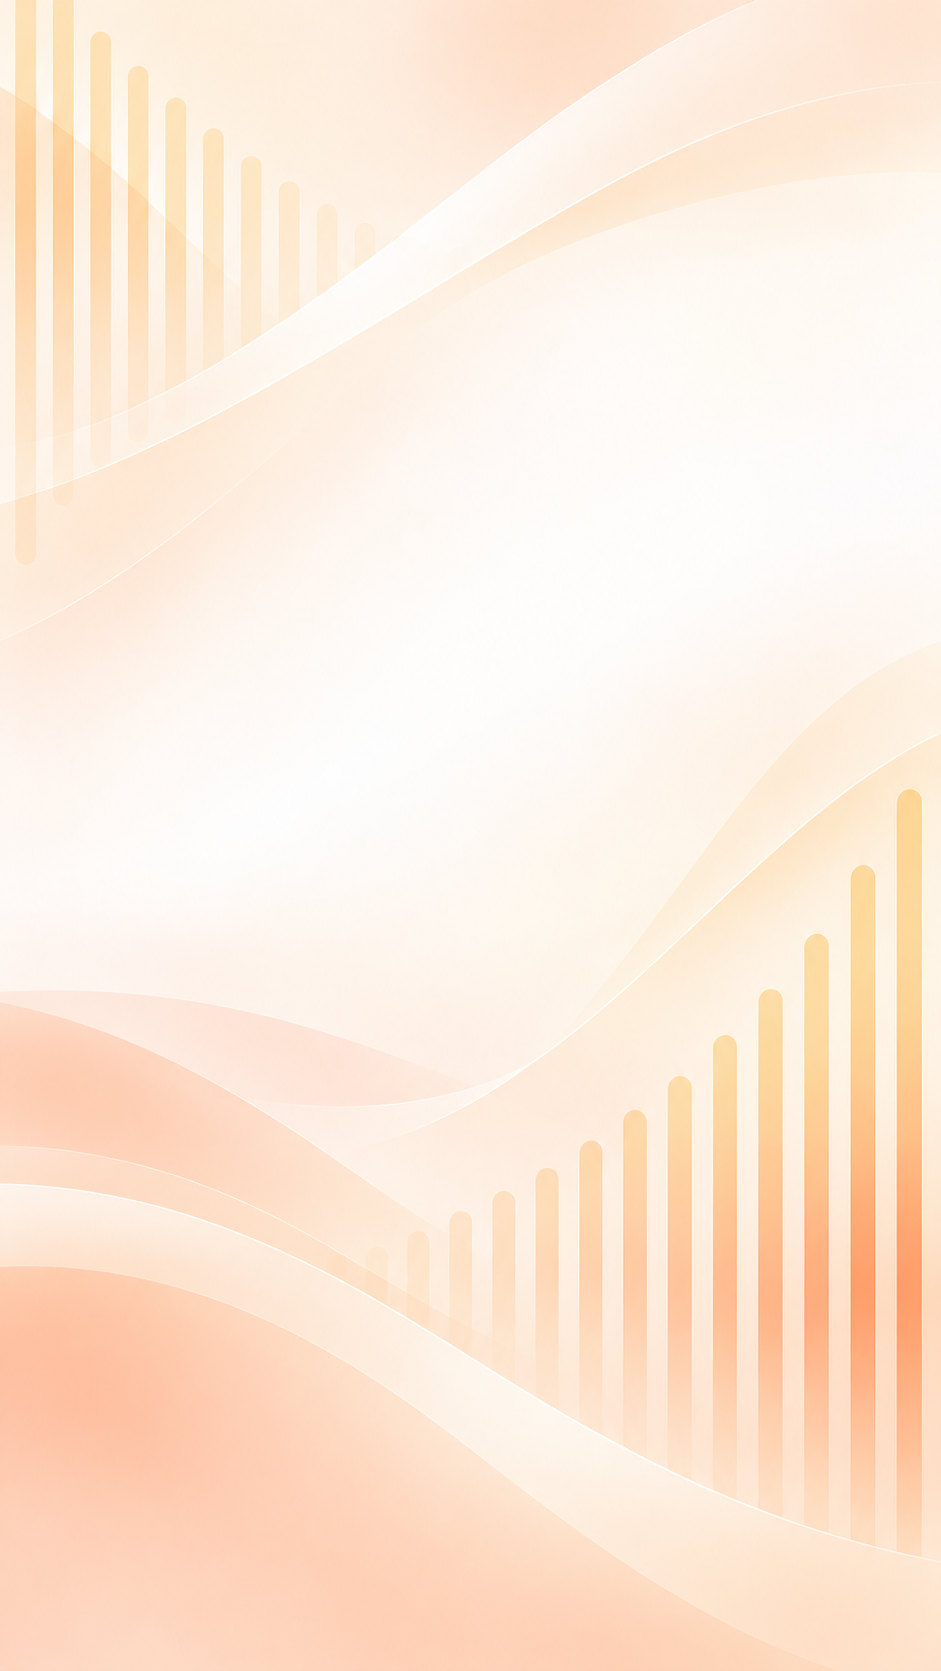
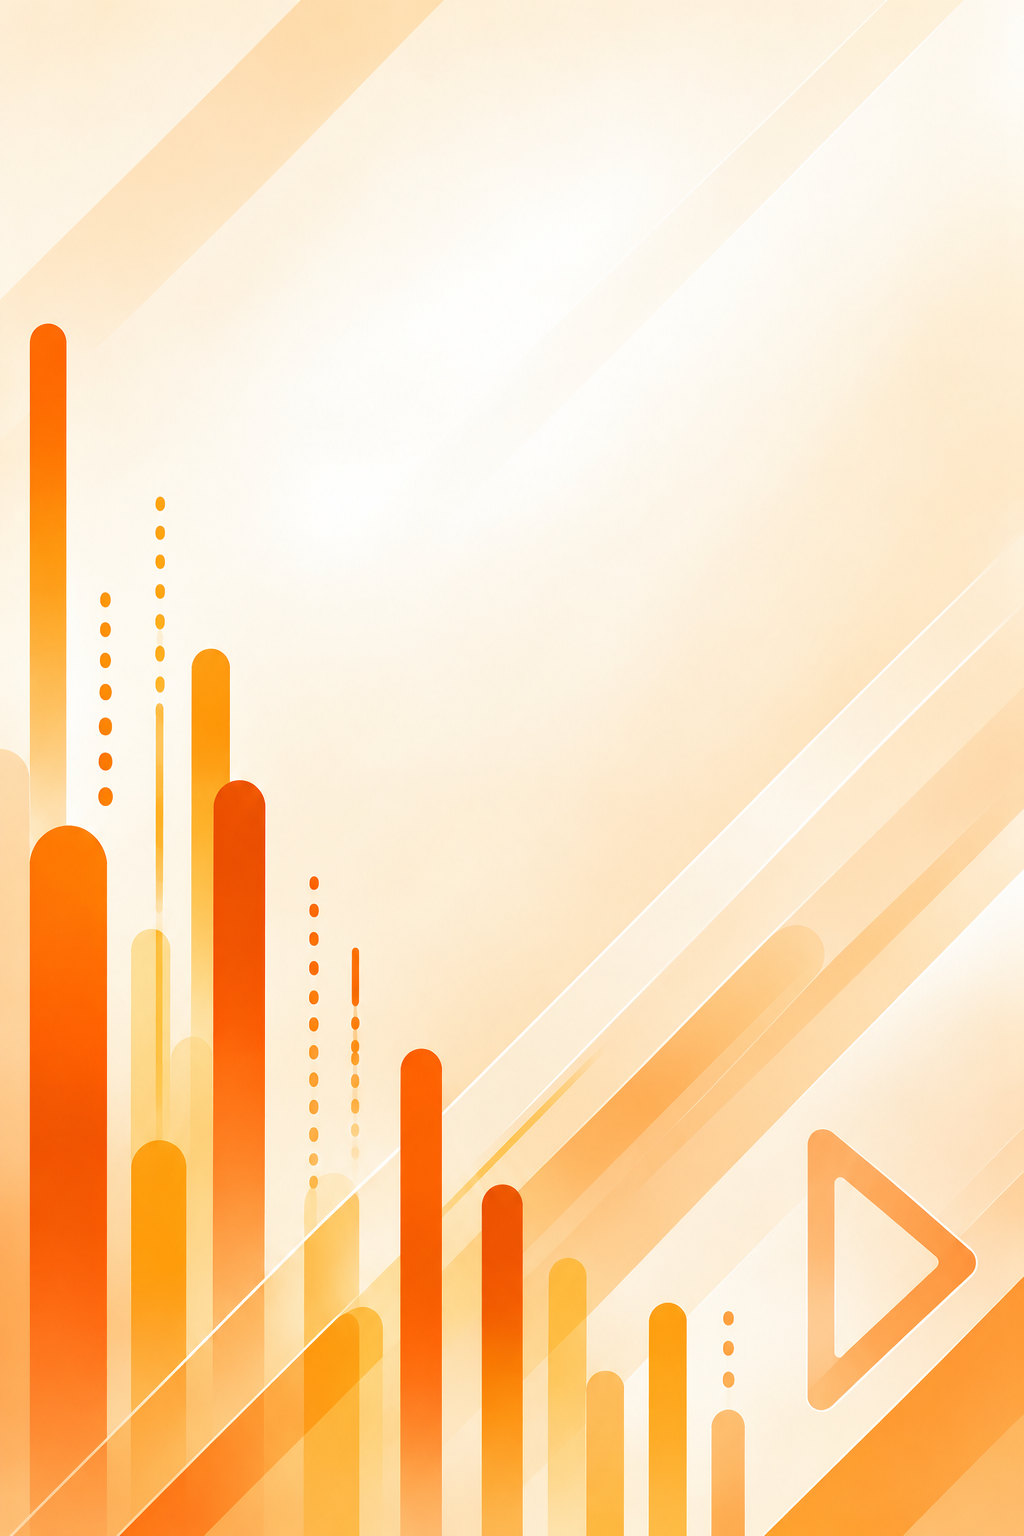
Nouveaux fonds par section, affichage portrait tablette et ordinateur
- 6 nouveaux fonds (bleu général, épargne vert, investissement bleu,
  crowdfunding violet, crédit orange, profil doré) ; l'accueil garde
  les vagues bleues
- Colonne de contenu centrée (600 px, 480 px pour connexion/PIN) sur
  tablette et ordinateur, barre d'onglets recentrée, iPad pris en charge
- Voile blanc derrière le contenu pour la lisibilité sur les fonds

Claude-Session: https://claude.ai/code/session_01QgSVtFBCyxpb6Kgdu9JHat

diff --git a/apps/mobile/components/ui/Screen.tsx b/apps/mobile/components/ui/Screen.tsx
@@ -2,9 +2,10 @@ import { ImageBackground, RefreshControl, ScrollView, StyleSheet, View, type Vie
 import { SafeAreaView, type Edge } from 'react-native-safe-area-context';
 import { StatusBar } from 'expo-status-bar';
 import type { ReactNode } from 'react';
-import { COLORS, SPACING } from '@/theme';
+import { COLORS, SPACING, centeredColumn } from '@/theme';
 import { OfflineBanner } from './OfflineBanner';
 import { WALLPAPER_IMAGE, WALLPAPERS, type WallpaperName } from './wallpapers';
+import { ContentVeil } from './ContentVeil';
 
 interface Props {
   children: ReactNode;
@@ -28,29 +29,37 @@ export function Screen({ children, scroll = true, background = COLORS.offWhite, 
     <SafeAreaView style={[styles.flex, { backgroundColor: wallpaper ? 'transparent' : background }]} edges={edges}>
       <StatusBar style={dark ? 'light' : 'dark'} />
       <OfflineBanner />
-      {header}
+      {header ? <View style={COLUMN}>{header}</View> : null}
       {scroll ? (
         <ScrollView
           style={styles.flex}
-          contentContainerStyle={[inner, { paddingBottom: SPACING.xxl }]}
+          contentContainerStyle={[COLUMN, inner, { paddingBottom: SPACING.xxl }]}
           keyboardShouldPersistTaps="handled"
           refreshControl={onRefresh ? <RefreshControl refreshing={!!refreshing} onRefresh={onRefresh} tintColor={COLORS.gold} /> : undefined}
         >
           {children}
         </ScrollView>
       ) : (
-        <View style={[styles.flex, inner]}>{children}</View>
+        <View style={[styles.flex, COLUMN, inner]}>{children}</View>
       )}
-      {footer ? <View style={styles.footer}>{footer}</View> : null}
+      {footer ? (
+        <View style={styles.footer}>
+          <View style={COLUMN}>{footer}</View>
+        </View>
+      ) : null}
     </SafeAreaView>
   );
   if (!wallpaper) return screen;
   return (
     <ImageBackground source={WALLPAPERS[wallpaper]} resizeMode="cover" style={[styles.flex, styles.clip, { backgroundColor: background }]} imageStyle={WALLPAPER_IMAGE} accessibilityIgnoresInvertColors>
+      <ContentVeil />
       {screen}
     </ImageBackground>
   );
 }
+
+/** Colonne centrée : pleine largeur sur téléphone, plafonnée sur tablette et ordinateur. */
+const COLUMN = centeredColumn();
 
 const styles = StyleSheet.create({
   flex: { flex: 1 },

diff --git a/apps/mobile/app/onboarding.tsx b/apps/mobile/app/onboarding.tsx
@@ -7,7 +7,7 @@ import { MotiView } from 'moti';
 import { useTranslation } from 'react-i18next';
 import { AppText, Button, DalaIcon, Logo, type DalaIconName } from '@/components/ui';
 import { useAuthStore } from '@/stores/auth';
-import { COLORS, RADIUS, SPACING } from '@/theme';
+import { COLORS, MAX_FORM_WIDTH, RADIUS, SPACING, centeredColumn } from '@/theme';
 
 const SLIDES: { key: string; color: string; main: DalaIconName; accent: DalaIconName; accent2: DalaIconName }[] = [
   { key: 's1', color: COLORS.green, main: 'savings', accent: 'vault', accent2: 'goals' },
@@ -52,7 +52,7 @@ export default function Onboarding() {
         keyExtractor={(s) => s.key}
         onMomentumScrollEnd={(e) => setIndex(Math.round(e.nativeEvent.contentOffset.x / width))}
         renderItem={({ item, index: i }) => (
-          <View style={[styles.slide, { width }]}>
+          <View style={[styles.slide, { width, paddingHorizontal: Math.max(SPACING.lg, (width - MAX_FORM_WIDTH) / 2) }]}>
             <MotiView
               key={`${item.key}-${index === i}`}
               from={{ opacity: 0, scale: 0.8 }}
@@ -98,10 +98,10 @@ const styles = StyleSheet.create({
   root: { flex: 1, backgroundColor: COLORS.navy },
   top: { flexDirection: 'row', alignItems: 'center', justifyContent: 'space-between', paddingLeft: SPACING.md },
   skip: { padding: SPACING.md },
-  slide: { alignItems: 'center', justifyContent: 'center', gap: SPACING.lg, paddingHorizontal: SPACING.lg },
+  slide: { alignItems: 'center', justifyContent: 'center', gap: SPACING.lg },
   illustration: { width: 240, height: 240, borderRadius: 120, borderWidth: 6, backgroundColor: COLORS.white, alignItems: 'center', justifyContent: 'center', marginBottom: SPACING.lg },
   bubble: { position: 'absolute', width: 68, height: 68, borderRadius: RADIUS.full, borderWidth: 3, backgroundColor: COLORS.white, alignItems: 'center', justifyContent: 'center' },
-  footer: { padding: SPACING.lg, gap: SPACING.md },
+  footer: { padding: SPACING.lg, gap: SPACING.md, ...centeredColumn(MAX_FORM_WIDTH) },
   dots: { flexDirection: 'row', justifyContent: 'center', gap: 8, marginBottom: SPACING.sm },
   dot: { height: 8, borderRadius: 4 },
 });

diff --git a/apps/mobile/components/ui/AuthBackground.tsx b/apps/mobile/components/ui/AuthBackground.tsx
@@ -2,13 +2,15 @@ import { ImageBackground, KeyboardAvoidingView, Platform, ScrollView, StyleSheet
 import { SafeAreaView } from 'react-native-safe-area-context';
 import { StatusBar } from 'expo-status-bar';
 import type { ReactNode } from 'react';
-import { COLORS, SPACING } from '@/theme';
+import { COLORS, MAX_FORM_WIDTH, SPACING, centeredColumn } from '@/theme';
 import { WALLPAPER_IMAGE, WALLPAPERS } from './wallpapers';
+import { ContentVeil } from './ContentVeil';
 
 /** Fond des écrans de connexion et d'inscription (wallpaper « auth », thème clair). */
 export function AuthBackground({ children }: { children: ReactNode }) {
   return (
-    <ImageBackground source={WALLPAPERS.auth} resizeMode="cover" style={{ flex: 1, overflow: 'hidden', backgroundColor: COLORS.white }} imageStyle={WALLPAPER_IMAGE} accessibilityIgnoresInvertColors>
+    <ImageBackground source={WALLPAPERS.general} resizeMode="cover" style={{ flex: 1, overflow: 'hidden', backgroundColor: COLORS.white }} imageStyle={WALLPAPER_IMAGE} accessibilityIgnoresInvertColors>
+      <ContentVeil max={MAX_FORM_WIDTH + 48} />
       <StatusBar style="dark" />
       <SafeAreaView style={{ flex: 1 }}>
         <KeyboardAvoidingView style={{ flex: 1 }} behavior={Platform.OS === 'ios' ? 'padding' : undefined}>
@@ -21,4 +23,4 @@ export function AuthBackground({ children }: { children: ReactNode }) {
   );
 }
 
-const styles = StyleSheet.create({ content: { flexGrow: 1, padding: SPACING.lg, gap: SPACING.sm } });
+const styles = StyleSheet.create({ content: { flexGrow: 1, padding: SPACING.lg, gap: SPACING.sm, ...centeredColumn(MAX_FORM_WIDTH) } });

diff --git a/apps/mobile/components/ui/PinSheet.tsx b/apps/mobile/components/ui/PinSheet.tsx
@@ -3,7 +3,7 @@ import { useEffect, useState } from 'react';
 import { Backspace } from 'phosphor-react-native';
 import * as Haptics from 'expo-haptics';
 import { useStrongAuthStore } from '@/stores/strongAuth';
-import { COLORS, RADIUS, SPACING, TEXT_ON_WHITE } from '@/theme';
+import { COLORS, MAX_FORM_WIDTH, RADIUS, SPACING, TEXT_ON_WHITE, centeredColumn } from '@/theme';
 import { AppText } from './AppText';
 import { DalaIcon } from './DalaIcon';
 
@@ -79,7 +79,7 @@ export function PinSheet() {
 
 const styles = StyleSheet.create({
   backdrop: { flex: 1, backgroundColor: 'rgba(15,27,61,0.6)', justifyContent: 'flex-end' },
-  sheet: { backgroundColor: COLORS.white, borderTopLeftRadius: RADIUS.xl, borderTopRightRadius: RADIUS.xl, padding: SPACING.lg, gap: SPACING.sm, paddingBottom: SPACING.xl },
+  sheet: { ...centeredColumn(MAX_FORM_WIDTH), backgroundColor: COLORS.white, borderTopLeftRadius: RADIUS.xl, borderTopRightRadius: RADIUS.xl, padding: SPACING.lg, gap: SPACING.sm, paddingBottom: SPACING.xl },
   icon: { alignSelf: 'center', backgroundColor: COLORS.offWhite, padding: SPACING.sm, borderRadius: RADIUS.full },
   dots: { flexDirection: 'row', justifyContent: 'center', gap: SPACING.md, marginVertical: SPACING.md },
   dot: { width: 16, height: 16, borderRadius: 8, borderWidth: 2, borderColor: COLORS.navy },

diff --git a/apps/mobile/components/ui/wallpapers.ts b/apps/mobile/components/ui/wallpapers.ts
@@ -1,20 +1,16 @@
 /**
- * Fonds d'écran par section (charte DALA, planche design/backgrounds/planche-fonds.png).
+ * Fonds d'écran par section (charte DALA, originaux dans design/backgrounds/v3).
  * Clairs et désaturés au centre : le contenu reste lisible sans voile.
  */
 export const WALLPAPERS = {
   home: require('@/assets/backgrounds/home.jpg'),
-  auth: require('@/assets/backgrounds/auth.jpg'),
+  /** Fond bleu général : connexion, transactions, notifications, portefeuille. */
+  general: require('@/assets/backgrounds/general.jpg'),
   savings: require('@/assets/backgrounds/savings.jpg'),
   invest: require('@/assets/backgrounds/invest.jpg'),
   crowdfund: require('@/assets/backgrounds/crowdfund.jpg'),
   credit: require('@/assets/backgrounds/credit.jpg'),
-  transactions: require('@/assets/backgrounds/transactions.jpg'),
   profile: require('@/assets/backgrounds/profile.jpg'),
-  notifications: require('@/assets/backgrounds/notifications.jpg'),
-  portfolio: require('@/assets/backgrounds/portfolio.jpg'),
-  services: require('@/assets/backgrounds/services.jpg'),
-  opportunities: require('@/assets/backgrounds/opportunities.jpg'),
 } as const;
 
 export type WallpaperName = keyof typeof WALLPAPERS;

diff --git a/apps/mobile/app/crowdfund/[projectId].tsx b/apps/mobile/app/crowdfund/[projectId].tsx
@@ -1,5 +1,5 @@
 import { useState } from 'react';
-import { Image, Linking, Pressable, ScrollView, StyleSheet, Switch, View, useWindowDimensions } from 'react-native';
+import { Image, Linking, Pressable, ScrollView, StyleSheet, Switch, View } from 'react-native';
 import { useLocalSearchParams } from 'expo-router';
 import {
   CROWDFUND_MIN_INVESTMENT,
@@ -19,13 +19,13 @@ import { errorMessage } from '@/services/errors';
 import { track, amountBucket } from '@/services/monitoring';
 import { qk, useFinancialMutation, useProject, useSummary } from '@/hooks/queries';
 import { useStrongAuth } from '@/hooks/useStrongAuth';
-import { COLORS, RADIUS, SPACING, TEXT_ON_WHITE } from '@/theme';
+import { COLORS, RADIUS, SPACING, TEXT_ON_WHITE, useContentWidth } from '@/theme';
 import { SECTOR_COLOR, sectorLabel } from '@/utils/meta';
 
 export default function ProjectDetail() {
   const { projectId } = useLocalSearchParams<{ projectId: string }>();
   const q = useProject(projectId);
-  const { width } = useWindowDimensions();
+  const width = useContentWidth();
   const summary = useSummary();
   const [amount, setAmount] = useState(25_000);
   const [accepted, setAccepted] = useState(false);

diff --git a/apps/mobile/app/invest/index.tsx b/apps/mobile/app/invest/index.tsx
@@ -1,5 +1,5 @@
 import { useState } from 'react';
-import { FlatList, StyleSheet, Switch, View, useWindowDimensions } from 'react-native';
+import { FlatList, StyleSheet, Switch, View } from 'react-native';
 import { router } from 'expo-router';
 import { LEGAL_NOTICE_INVEST, formatFCFA, formatPercent } from '@dala/shared';
 import { AppText, Button, Card, DalaIcon, Header, LegalNotice, Loading, Screen, SectionTitle } from '@/components/ui';
@@ -7,10 +7,10 @@ import { LineChart } from '@/components/charts/LineChart';
 import { BondCard } from '@/components/invest/BondCard';
 import { FundRow } from '@/components/invest/FundRow';
 import { useBonds, useFunds, usePortfolio } from '@/hooks/queries';
-import { COLORS, SPACING, TEXT_ON_WHITE } from '@/theme';
+import { COLORS, SPACING, TEXT_ON_WHITE, useContentWidth } from '@/theme';
 
 export default function Invest() {
-  const { width } = useWindowDimensions();
+  const width = useContentWidth();
   const [halal, setHalal] = useState(false);
   const portfolio = usePortfolio();
   const bonds = useBonds(halal);

diff --git a/apps/mobile/app/(tabs)/_layout.tsx b/apps/mobile/app/(tabs)/_layout.tsx
@@ -3,12 +3,13 @@ import { Redirect, Tabs } from 'expo-router';
 import { useTranslation } from 'react-i18next';
 import { DalaIcon, type DalaIconName } from '@/components/ui';
 import { useAuthStore } from '@/stores/auth';
-import { COLORS, FONTS } from '@/theme';
+import { COLORS, FONTS, useSideGutter } from '@/theme';
 
 /** Barre d'onglets claire : les icônes illustrées DALA sont conçues pour fond blanc. */
 export default function TabsLayout() {
   const { t } = useTranslation();
   const token = useAuthStore((s) => s.accessToken);
+  const gutter = useSideGutter();
   if (!token) return <Redirect href="/(auth)/login" />;
 
   const icon =
@@ -26,7 +27,7 @@ export default function TabsLayout() {
         headerShown: false,
         tabBarActiveTintColor: COLORS.navy,
         tabBarInactiveTintColor: COLORS.midGray,
-        tabBarStyle: styles.bar,
+        tabBarStyle: [styles.bar, { paddingHorizontal: gutter }],
         tabBarLabelStyle: { fontFamily: FONTS.bodySemiBold, fontSize: 11 },
       }}
     >

diff --git a/apps/mobile/theme/layout.ts b/apps/mobile/theme/layout.ts
@@ -1,0 +1,22 @@
+import { useWindowDimensions } from 'react-native';
+
+/**
+ * Affichage portrait sur grand écran (tablette, ordinateur) : le contenu reste une colonne
+ * centrée de largeur « téléphone confortable », le fond d'écran occupe toute la surface.
+ */
+export const MAX_CONTENT_WIDTH = 600;
+export const MAX_FORM_WIDTH = 480;
+
+/** Largeur réellement disponible pour le contenu (≤ MAX_CONTENT_WIDTH). */
+export function useContentWidth(max = MAX_CONTENT_WIDTH) {
+  const { width } = useWindowDimensions();
+  return Math.min(width, max);
+}
+
+/** Marge latérale pour centrer une colonne de largeur `max` dans la fenêtre. */
+export function useSideGutter(max = MAX_CONTENT_WIDTH) {
+  const { width } = useWindowDimensions();
+  return Math.max(0, (width - max) / 2);
+}
+
+export const centeredColumn = (max = MAX_CONTENT_WIDTH) => ({ width: '100%' as const, maxWidth: max, alignSelf: 'center' as const });

diff --git a/apps/mobile/app/wallet.tsx b/apps/mobile/app/wallet.tsx
@@ -71,7 +71,7 @@ export default function Wallet() {
 
   if (done) {
     return (
-      <Screen wallpaper="portfolio" header={<Header title="Opération réussie" />}>
+      <Screen wallpaper="general" header={<Header title="Opération réussie" />}>
         <View style={{ alignItems: 'center', gap: SPACING.md, marginTop: SPACING.xl }}>
           <DalaIcon name="success" size={100} />
           <AppText variant="h3" weight="bold" align="center">{done}</AppText>
@@ -85,7 +85,7 @@ export default function Wallet() {
   const isMobileMoney = mode === 'deposit' || mode === 'withdraw';
 
   return (
-    <Screen wallpaper="portfolio"
+    <Screen wallpaper="general"
       header={<Header title="Portefeuille" />}
       footer={mode !== 'scan' ? <Button title="Valider" disabled={value < 100 || (mode === 'send' && phone.length < 8)} loading={pending} onPress={submit} /> : undefined}
     >

diff --git a/apps/mobile/components/ui/ContentVeil.tsx b/apps/mobile/components/ui/ContentVeil.tsx
@@ -1,0 +1,17 @@
+import { View, useWindowDimensions } from 'react-native';
+import { MAX_CONTENT_WIDTH } from '@/theme';
+
+/** Voile blanc derrière la colonne de contenu : garantit la lisibilité sur les fonds illustrés. */
+export const VEIL = 'rgba(255,255,255,0.62)';
+
+export function ContentVeil({ max = MAX_CONTENT_WIDTH, opacity = VEIL }: { max?: number; opacity?: string }) {
+  const { width } = useWindowDimensions();
+  const w = Math.min(width, max);
+  return (
+    <View
+      pointerEvents="none"
+      importantForAccessibility="no-hide-descendants"
+      style={{ position: 'absolute', top: 0, bottom: 0, left: (width - w) / 2, width: w, backgroundColor: opacity }}
+    />
+  );
+}

diff --git a/apps/mobile/app/notifications.tsx b/apps/mobile/app/notifications.tsx
@@ -32,7 +32,7 @@ export default function NotificationsScreen() {
   }, [q.data?.unread, qc]);
 
   return (
-    <Screen wallpaper="notifications" header={<Header title="Notifications" />} onRefresh={() => void q.refetch()} refreshing={q.isRefetching}>
+    <Screen wallpaper="general" header={<Header title="Notifications" />} onRefresh={() => void q.refetch()} refreshing={q.isRefetching}>
       {q.isLoading ? (
         <Loading />
       ) : q.data?.items.length ? (
